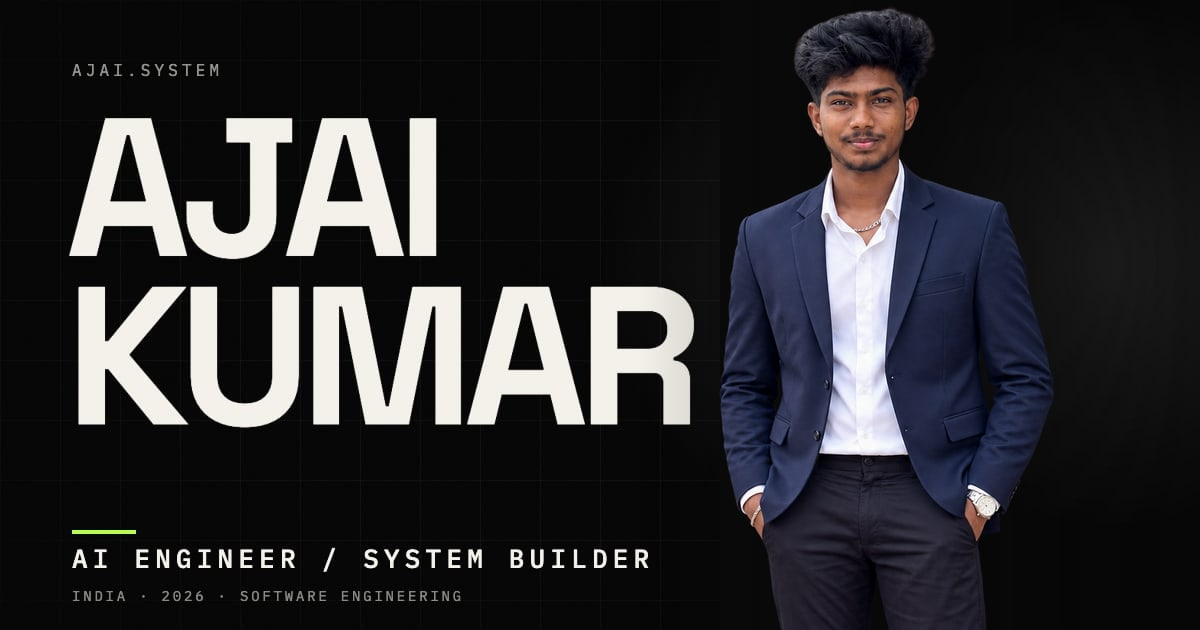
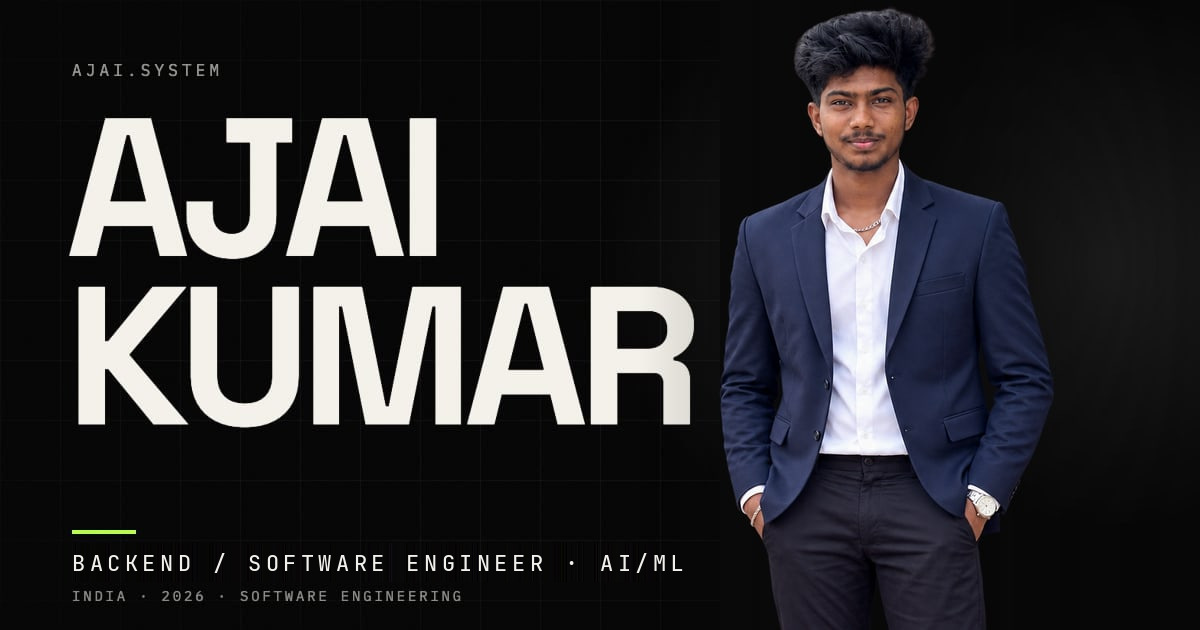
chore(portfolio): align backend software engineer branding
Reposition from "AI Engineer / System Builder" to
"Backend / Software Engineer · AI/ML" across site metadata, Open Graph and
Twitter titles/descriptions/alt text, JSON-LD job title, hero, contact and
globe copy, and the social preview images (tagline only; design unchanged).

Reflect the verified Kavya backend architecture (async SQLAlchemy,
PostgreSQL, MongoDB, Redis, Celery, APScheduler, WebSockets, JWT/RBAC,
AWS S3, pytest) in the case study, project stack and stack graph. Replace
the generic "AWS" entry with "AWS S3" to avoid implying broader AWS use.

Changed region(s): [[0.0617, 0.8746, 0.555, 0.9048]]

diff --git a/src/data/content.ts b/src/data/content.ts
@@ -7,9 +7,9 @@ export type Source = 'resume' | 'doc' | 'owner'
 export const person = {
   name: 'Ajai Kumar N',
   short: 'AJAI KUMAR',
-  headline: 'AI ENGINEER / SYSTEM BUILDER',
-  resumeTitle: 'SOFTWARE ENGINEER · BACKEND DEVELOPER',
-  statement: 'I build intelligent systems that operate in the real world.',
+  headline: 'BACKEND / SOFTWARE ENGINEER · AI/ML',
+  resumeTitle: 'JAVA · SPRING BOOT · PYTHON · FASTAPI · POSTGRESQL',
+  statement: 'I build backend systems that operate in the real world.',
   philosophy: 'I like building things that have to work outside the demo.',
   meta: 'INDIA · 2026 · SOFTWARE ENGINEERING',
   location: 'Tirunelveli, India',
@@ -90,12 +90,12 @@ export const projects: Project[] = [
     status: 'BUILT · 2026',
     period: 'Jan 2026 – May 2026',
     stack: [
-      'Python', 'FastAPI', 'SQLAlchemy', 'React', 'TypeScript', 'Flutter',
-      'PostgreSQL', 'MongoDB', 'Redis', 'WebSockets',
+      'Python', 'FastAPI', 'SQLAlchemy', 'PostgreSQL', 'MongoDB', 'Redis', 'Celery', 'APScheduler',
+      'WebSockets', 'JWT / RBAC', 'AWS S3', 'pytest', 'React', 'TypeScript', 'Flutter',
     ],
     tiles: ['FLEET', 'VEHICLES', 'TRIPS', 'ROUTES', 'MAP'],
     summary:
-      'Fleet management platform covering vehicle tracking, trip monitoring, billing and transport operations. PostgreSQL for fleet data, MongoDB for GPS and logs, WebSockets for real-time updates.',
+      'Fleet management platform covering vehicle tracking, trip monitoring, billing and transport operations. FastAPI backend with async SQLAlchemy: PostgreSQL for fleet data, MongoDB for GPS and logs, Redis for caching, Celery and APScheduler for background jobs, WebSockets for real-time updates, JWT auth with role-based access control, AWS S3 for documents, and a pytest suite.',
     metrics: [],
     hasRealScreenshots: true,
     source: ['resume', 'doc'],
@@ -214,6 +214,11 @@ export const stack: Tech[] = [
   { name: 'SQLAlchemy', category: 'BACKEND', usedIn: ['kavya'], source: 'resume' },
   { name: 'REST APIs', category: 'BACKEND', usedIn: ['kavya', 'icanio'], source: 'resume' },
   { name: 'WebSockets', category: 'BACKEND', usedIn: ['kavya'], source: 'resume' },
+  { name: 'Celery', category: 'BACKEND', usedIn: ['kavya'], source: 'doc' },
+  { name: 'APScheduler', category: 'BACKEND', usedIn: ['kavya'], source: 'doc' },
+  { name: 'JWT / RBAC', category: 'BACKEND', usedIn: ['kavya'], source: 'doc' },
+  { name: 'JPA / Hibernate', category: 'BACKEND', usedIn: ['icanio'], source: 'owner' },
+  { name: 'Spring Security', category: 'BACKEND', usedIn: [], source: 'doc' },
   { name: 'PostgreSQL', category: 'DATA', usedIn: ['yamini', 'kavya', 'icanio'], source: 'resume' },
   { name: 'MongoDB', category: 'DATA', usedIn: ['yamini', 'kavya'], source: 'resume' },
   { name: 'Redis', category: 'DATA', usedIn: ['kavya'], source: 'resume' },
@@ -225,13 +230,14 @@ export const stack: Tech[] = [
   { name: 'NLP', category: 'AI / ML', usedIn: ['uzhavan'], source: 'owner' },
   { name: 'LLM Applications', category: 'AI / ML', usedIn: ['uzhavan'], source: 'owner' },
   { name: 'Vertex AI', category: 'AI / ML', usedIn: ['uzhavan'], source: 'owner' },
-  { name: 'AWS', category: 'CLOUD', usedIn: [], source: 'owner' },
+  { name: 'AWS S3', category: 'CLOUD', usedIn: ['kavya'], source: 'doc' },
   { name: 'Google Cloud', category: 'CLOUD', usedIn: [], source: 'owner' },
   { name: 'Flutter', category: 'MOBILE & WEB', usedIn: ['yamini', 'kavya'], source: 'resume' },
   { name: 'Android', category: 'MOBILE & WEB', usedIn: [], source: 'owner' },
   { name: 'React', category: 'MOBILE & WEB', usedIn: ['yamini', 'kavya'], source: 'resume' },
   { name: 'Git / GitHub', category: 'TOOLS', usedIn: [], source: 'resume' },
   { name: 'Postman', category: 'TOOLS', usedIn: [], source: 'resume' },
+  { name: 'pytest', category: 'TOOLS', usedIn: ['kavya'], source: 'doc' },
 ]
 
 // Engineering topics for the Yamini case study (from the case-study doc).

diff --git a/src/data/stack.ts b/src/data/stack.ts
@@ -30,12 +30,17 @@ export const techMeta: Record<string, TechMeta> = {
   SQLAlchemy: { useCases: ['BACKEND'], detail: 'Used in the Kavya fleet platform backend.' },
   'REST APIs': { useCases: ['BACKEND'], detail: 'REST endpoints in Kavya; academic-management APIs during the Icanio internship.' },
   WebSockets: { useCases: ['BACKEND', 'REAL-TIME'], detail: 'Real-time updates in Kavya.' },
+  Celery: { useCases: ['BACKEND'], detail: 'Background tasks in the Kavya backend.' },
+  APScheduler: { useCases: ['BACKEND'], detail: 'Scheduled jobs in the Kavya backend.' },
+  'JWT / RBAC': { useCases: ['BACKEND'], detail: 'JWT auth and role-based access control in Kavya.' },
+  'JPA / Hibernate': { useCases: ['BACKEND'], detail: 'Persistence layer in the College ERP (Icanio Tech School internship).' },
+  'Spring Security': { useCases: ['BACKEND'], detail: 'Role-based authorization in a Spring Boot training project (ICT-Training repo).' },
   PostgreSQL: {
     useCases: ['DATA'],
     detail: 'Relational data: ERP (Yamini), fleet operations (Kavya), academic management (Icanio internship).',
   },
   MongoDB: { useCases: ['DATA'], detail: 'GPS tracking data (Yamini); GPS and log data (Kavya).' },
-  Redis: { useCases: ['DATA'], detail: 'Part of the Kavya stack. Its role is not documented here.' },
+  Redis: { useCases: ['DATA'], detail: 'Caching in the Kavya backend.' },
   MySQL: { useCases: ['DATA'] },
   Pandas: { useCases: ['DATA'] },
   NumPy: { useCases: ['DATA'] },
@@ -44,13 +49,14 @@ export const techMeta: Record<string, TechMeta> = {
   NLP: { useCases: ['AI / ML'], detail: 'Part of the UZHAVAN pipeline.' },
   'LLM Applications': { useCases: ['AI / ML'], detail: 'Part of the UZHAVAN pipeline.' },
   'Vertex AI': { useCases: ['AI / ML'], detail: 'Listed in the UZHAVAN stack.' },
-  AWS: { useCases: ['CLOUD'] },
+  'AWS S3': { useCases: ['CLOUD'], detail: 'Document storage in Kavya (S3 via boto3). No broader AWS claim.' },
   'Google Cloud': { useCases: ['CLOUD'] },
   Flutter: { useCases: ['MOBILE'], detail: 'Mobile app in Yamini and Kavya.' },
   Android: { useCases: ['MOBILE'] },
   React: { useCases: ['WEB'], detail: 'Web client in Yamini and Kavya.' },
   'Git / GitHub': { useCases: [] },
   Postman: { useCases: [] },
+  pytest: { useCases: [], detail: 'Automated tests for the Kavya backend.' },
 }
 
 export const internshipNames: Record<string, string> = {

diff --git a/src/components/worlds/kavya/SystemFlow.tsx b/src/components/worlds/kavya/SystemFlow.tsx
@@ -10,7 +10,11 @@ const STACK_FACTS = [
   'POSTGRESQL · FLEET DATA',
   'MONGODB · GPS AND LOG DATA',
   'WEBSOCKETS · REAL-TIME UPDATES',
-  'REDIS · PART OF THE STACK',
+  'REDIS · CACHING',
+  'CELERY + APSCHEDULER · BACKGROUND JOBS',
+  'JWT + RBAC · AUTH AND ACCESS CONTROL',
+  'AWS S3 · DOCUMENT STORAGE',
+  'PYTEST · BACKEND TEST SUITE',
 ]
 
 export default function SystemFlow() {
@@ -85,7 +89,7 @@ export default function SystemFlow() {
           <li key={f}>{f}</li>
         ))}
       </ul>
-      <p className="m-0 mt-2" style={{ ...mono, fontSize: 9, letterSpacing: '0.2em', color: 'rgba(244,241,234,0.55)' }}>SOURCE · RESUME</p>
+      <p className="m-0 mt-2" style={{ ...mono, fontSize: 9, letterSpacing: '0.2em', color: 'rgba(244,241,234,0.55)' }}>SOURCE · RESUME · PROJECT REPOSITORY</p>
     </div>
   )
 }

diff --git a/src/data/worlds.ts b/src/data/worlds.ts
@@ -88,8 +88,8 @@ export const kavya = {
     },
     {
       key: 'SYSTEM',
-      text: 'A Python / FastAPI and SQLAlchemy backend with a React / TypeScript web client and a Flutter app. PostgreSQL holds fleet data, MongoDB holds GPS and log data, and WebSockets carry real-time updates. Redis is part of the stack.',
-      source: 'resume',
+      text: 'A Python / FastAPI backend with async SQLAlchemy, a React / TypeScript web client and a Flutter app. PostgreSQL holds fleet data, MongoDB holds GPS and log data, Redis handles caching, and Celery and APScheduler run background jobs. WebSockets carry real-time updates, access uses JWT with role-based permissions, documents go to AWS S3, and a pytest suite covers the backend.',
+      source: 'owner',
     },
     {
       key: 'SOLUTION',

diff --git a/src/lib/site.ts b/src/lib/site.ts
@@ -3,8 +3,8 @@
 export const SITE_URL = (process.env.NEXT_PUBLIC_SITE_URL ?? 'https://ajaikumar0609.tech').replace(/\/$/, '')
 
 export const SITE_NAME = 'Ajai Kumar'
-export const SITE_TITLE = 'AJAI KUMAR — AI ENGINEER / SYSTEM BUILDER'
+export const SITE_TITLE = 'AJAI KUMAR — BACKEND / SOFTWARE ENGINEER · AI/ML'
 export const SITE_DESCRIPTION =
-  'AI Engineer and Software Engineer focused on backend systems, applied AI, and real-world software products.'
+  'Backend / Software Engineer with AI/ML experience, focused on APIs, data systems and real-world software products.'
 
 export const PUBLIC_ROUTES = ['/', '/work', '/work/yamini', '/work/kavya', '/work/uzhavan', '/about', '/contact'] as const

diff --git a/src/app/layout.tsx b/src/app/layout.tsx
@@ -22,7 +22,7 @@ export const metadata: Metadata = {
   applicationName: SITE_NAME,
   authors: [{ name: "Ajai Kumar N", url: SITE_URL }],
   creator: "Ajai Kumar N",
-  keywords: ["Ajai Kumar", "AI Engineer", "Software Engineer", "Backend Developer", "FastAPI", "Python", "Flutter", "Applied AI"],
+  keywords: ["Ajai Kumar", "Backend Engineer", "Software Engineer", "Backend Developer", "Java", "Spring Boot", "Python", "FastAPI", "PostgreSQL", "REST APIs", "AI/ML"],
   alternates: { canonical: "/" },
   robots: { index: true, follow: true, googleBot: { index: true, follow: true, "max-image-preview": "large" } },
   openGraph: {

diff --git a/src/components/ContactSection.tsx b/src/components/ContactSection.tsx
@@ -35,7 +35,7 @@ export default function ContactSection() {
             <span className="block">BUILD.</span>
           </h2>
           <p className="m-0 mt-5" style={{ ...mono, fontSize: 12, letterSpacing: '0.2em', color: 'rgba(244,241,234,0.85)' }}>
-            AJAI KUMAR / AI ENGINEER / BACKEND / SYSTEMS
+            AJAI KUMAR / BACKEND / SOFTWARE ENGINEER · AI/ML
           </p>
           <p className="m-0 mt-2" style={{ ...mono, fontSize: 10, letterSpacing: '0.2em', color: 'rgba(244,241,234,0.6)' }}>
             {person.meta}

diff --git a/src/components/about/Facts.tsx b/src/components/about/Facts.tsx
@@ -3,7 +3,7 @@ import { education, person } from '@/data/content'
 const mono = { fontFamily: 'var(--font-ibm-plex-mono), monospace' } as const
 const sans = { fontFamily: 'var(--font-space-grotesk), sans-serif' } as const
 
-const DISCIPLINES = ['AI', 'BACKEND', 'SYSTEMS', 'PRODUCT']
+const DISCIPLINES = ['BACKEND', 'SYSTEMS', 'AI/ML', 'PRODUCT']
 
 const row = (label: string, value: string) => (
   <div className="grid gap-1 py-4 md:grid-cols-[130px_1fr] md:gap-6" style={{ borderTop: '1px solid var(--border)' }}>

diff --git a/src/components/Hero.tsx b/src/components/Hero.tsx
@@ -12,7 +12,7 @@ import { ease } from '@/design/tokens'
 const mono = { fontFamily: 'var(--font-ibm-plex-mono), monospace' } as const
 const sans = { fontFamily: 'var(--font-space-grotesk), sans-serif' } as const
 
-const STATEMENT = ['I BUILD INTELLIGENT', 'SYSTEMS THAT OPERATE', 'IN THE REAL WORLD.']
+const STATEMENT = ['I BUILD BACKEND', 'SYSTEMS THAT OPERATE', 'IN THE REAL WORLD.']
 
 export default function Hero({ ready }: { ready: boolean }) {
   const reduced = useReduced()

diff --git a/src/components/GlobeScene.tsx b/src/components/GlobeScene.tsx
@@ -272,7 +272,7 @@ export default function GlobeScene() {
             <span style={{ color: '#B8FF3D' }}>●</span> INDIA · SYSTEM BASE
           </button>
           <p className="m-0 mt-2" style={{ ...mono, fontSize: 11, letterSpacing: '0.2em', color: 'rgba(244,241,234,0.55)' }}>
-            AI · BACKEND · SYSTEMS
+            BACKEND · AI/ML · SYSTEMS
           </p>
         </div>
 

diff --git a/src/components/JsonLd.tsx b/src/components/JsonLd.tsx
@@ -12,7 +12,7 @@ export default function JsonLd() {
         name: person.name,
         url: SITE_URL,
         image: `${SITE_URL}/ajai-kumar.jpg`,
-        jobTitle: 'Software Engineer',
+        jobTitle: 'Backend / Software Engineer',
         description: SITE_DESCRIPTION,
         sameAs: [person.github, person.linkedin],
       },
